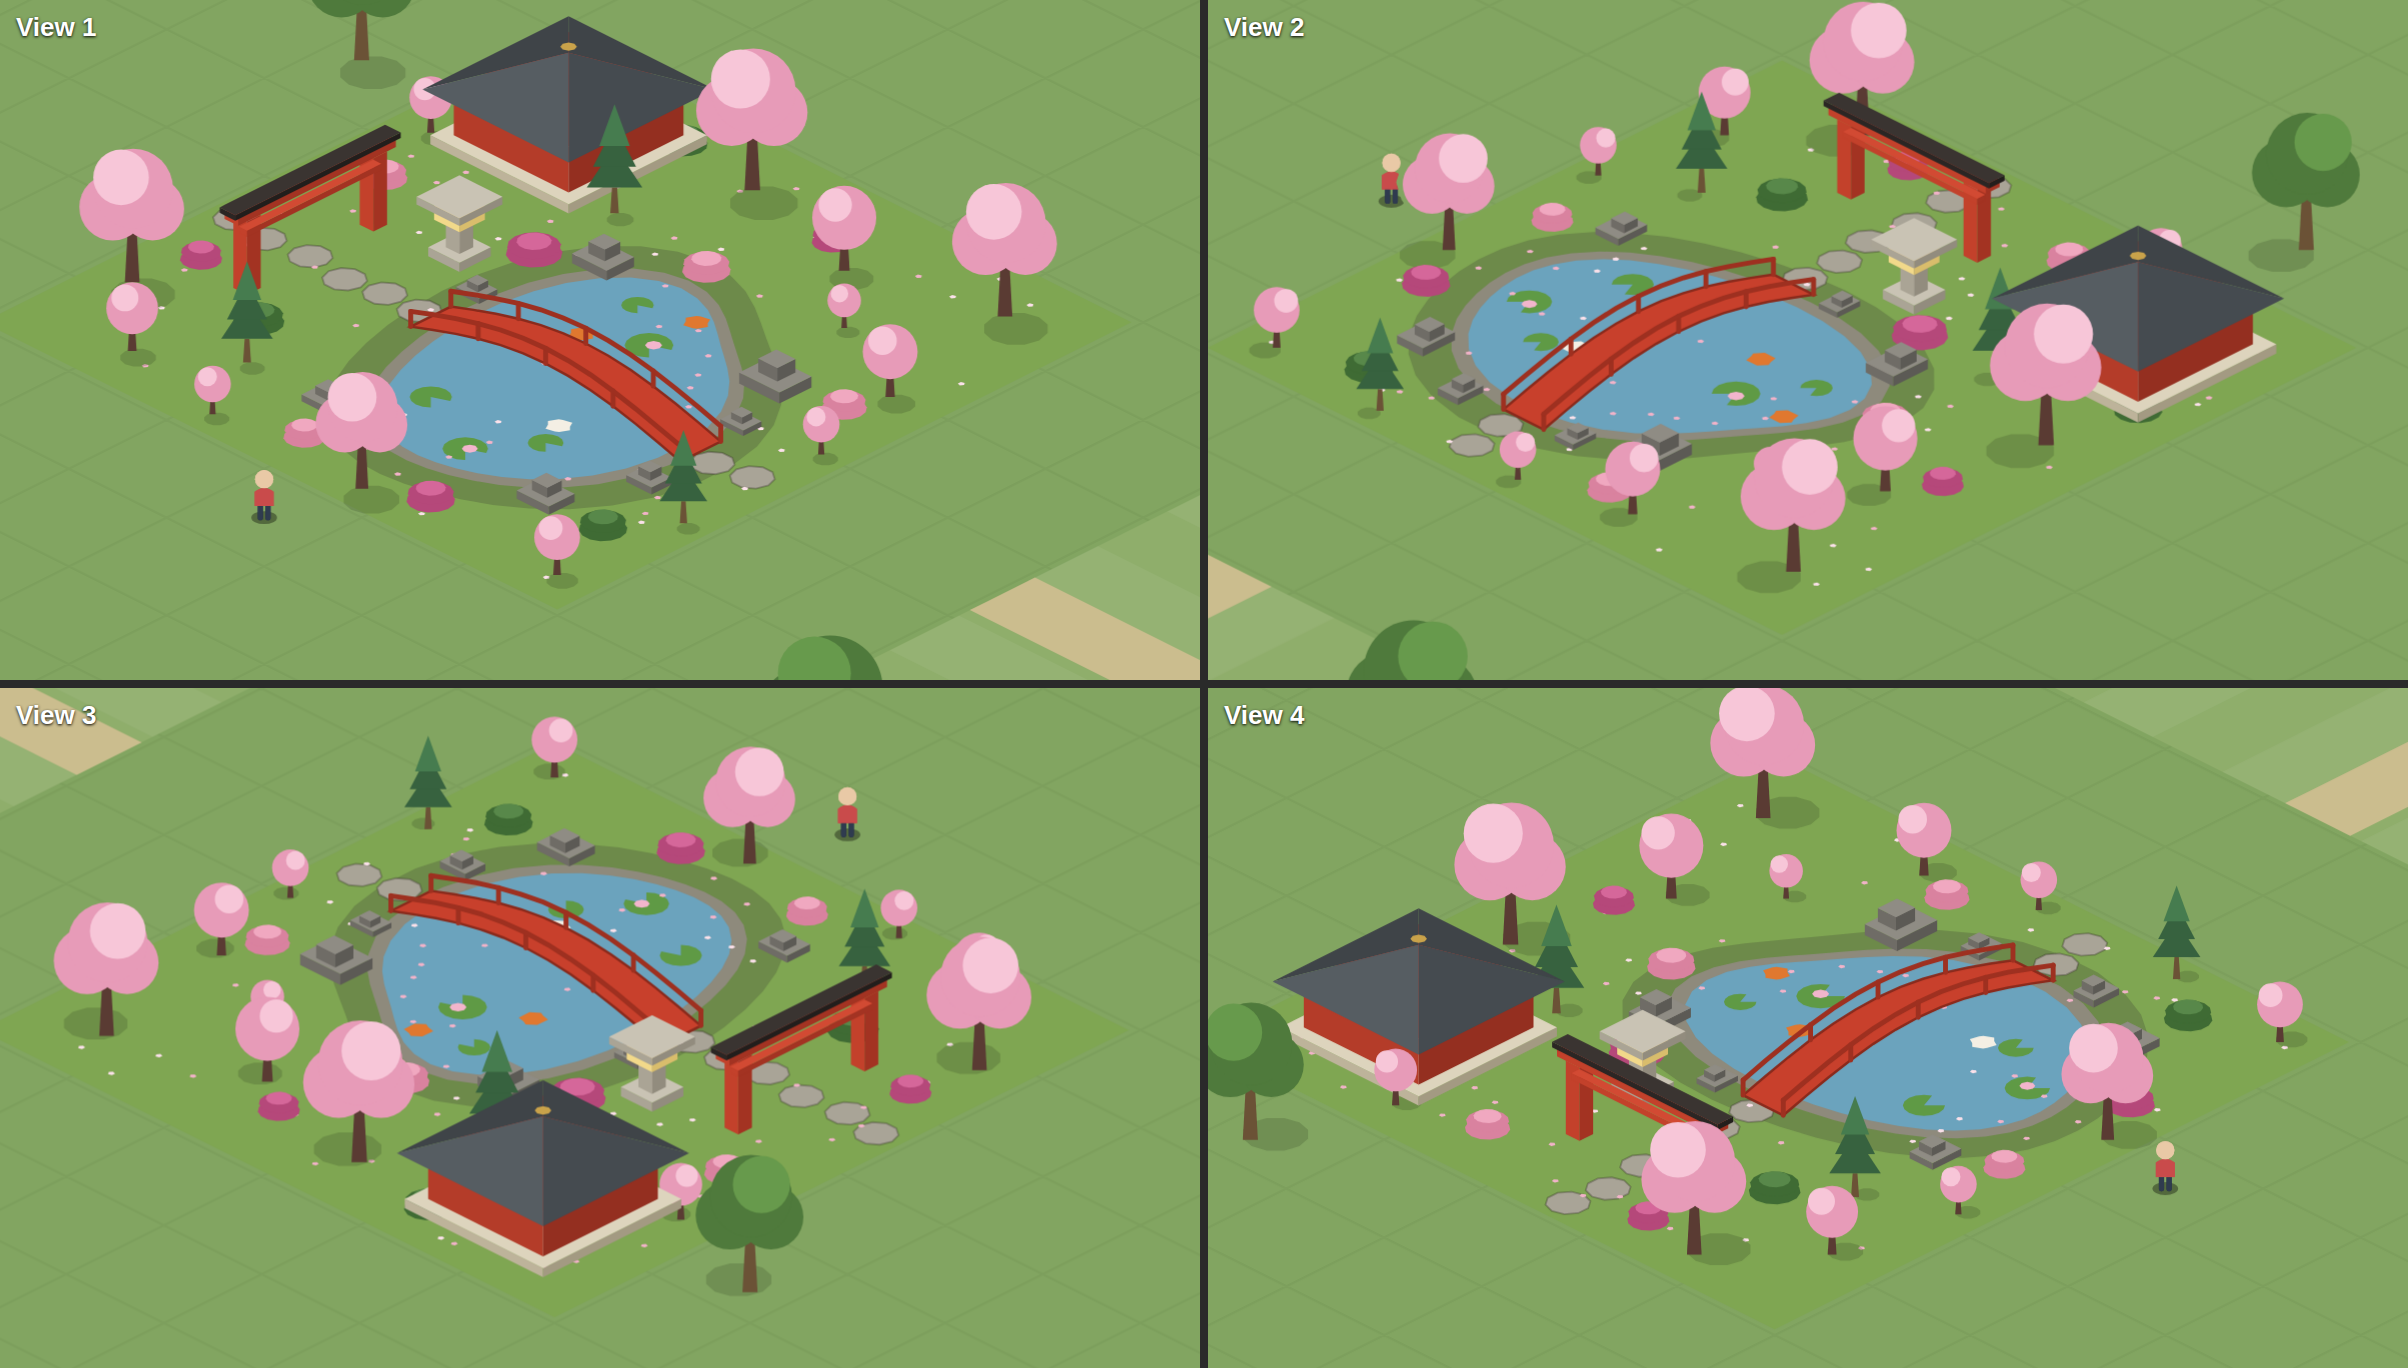
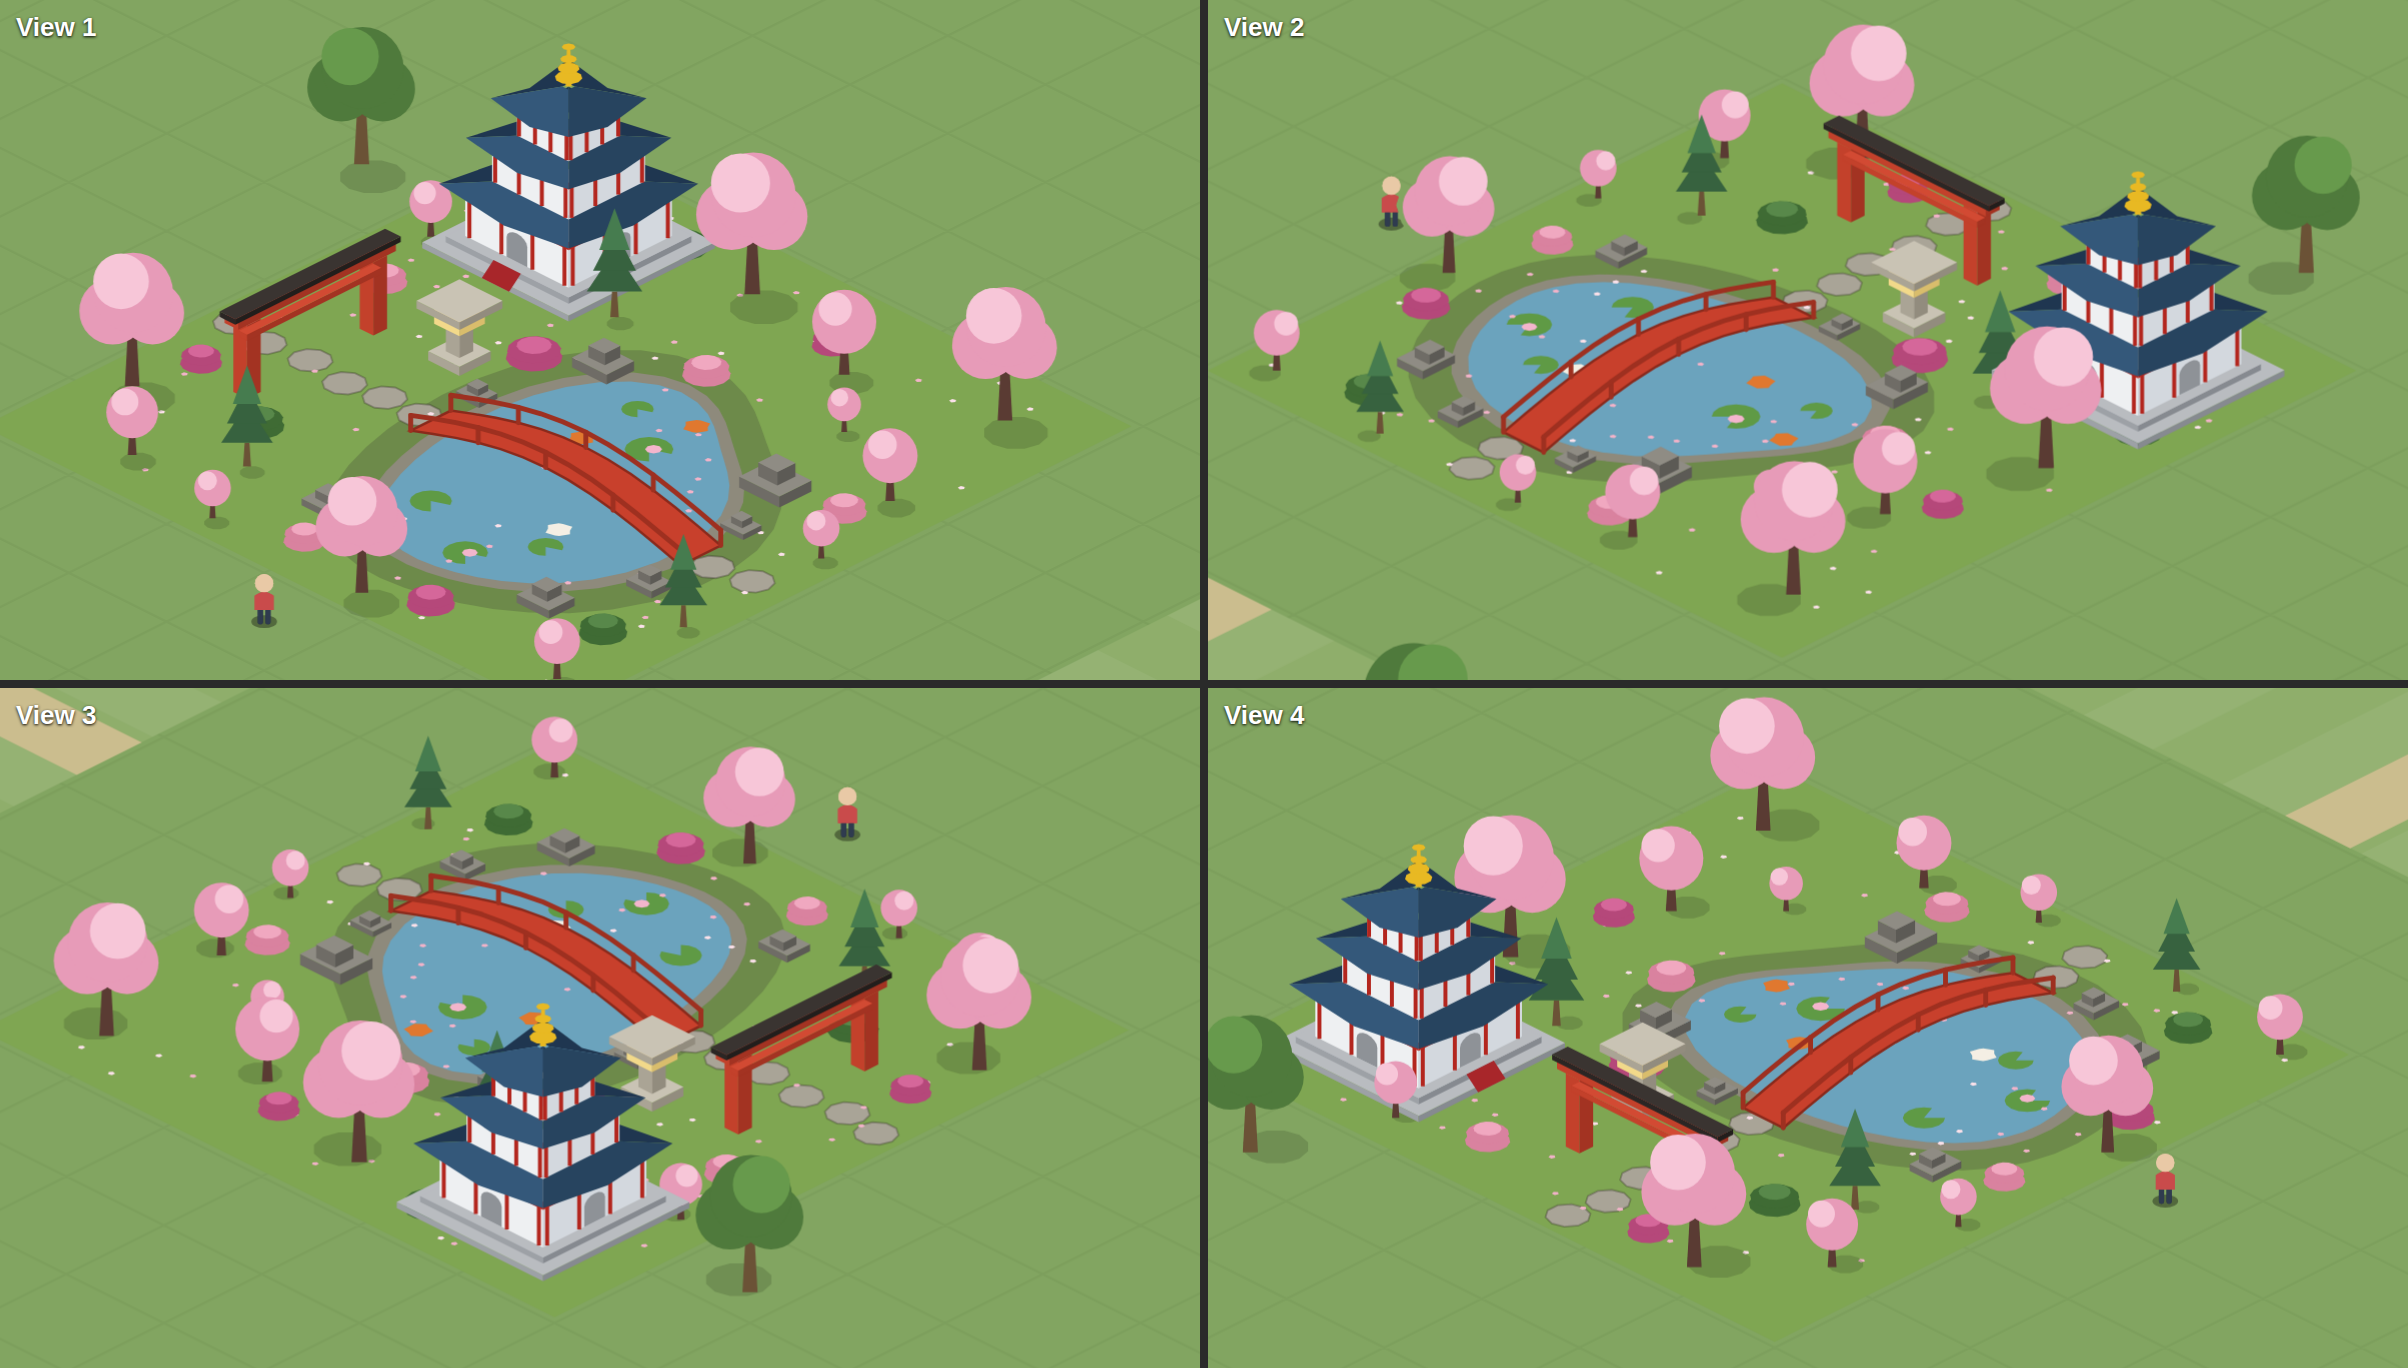
Plan 72M: the garden's temple becomes a three-tiered pagoda
After a second picture from the owner: white walls framed by red posts and
beams, flared roofs of dark blue tiles narrowing as they rise, a gold
spire, a grey stepped base with a red runner and an arched door. The
catalog's line, the plan note and the screenshots follow.

Claude-Session: https://claude.ai/code/session_01626829xCDikHrhnzaA5AeP

diff --git a/unischool/src/components/groundMarkings.tsx b/unischool/src/components/groundMarkings.tsx
@@ -1148,7 +1148,7 @@ function Fountain({ col, row, w, h }: GroundProps) {
 // The Japanese garden (Plan 72, in place of the formal garden, which was
 // drawn as a small Grand Quad; redrawn denser in 72M, after a picture the
 // owner chose): grass, a koi pond with lily pads under a red bridge, a
-// vermilion torii over a path of stepping stones, a small temple hall,
+// vermilion torii over a path of stepping stones, a three-tiered pagoda,
 // cherry trees in blossom with their petals on the grass and the water,
 // azaleas, pines, rocks round the pond and a stone lantern. Everything is
 // authored in the plot's own u/v, so it turns with the camera and never
@@ -1160,7 +1160,7 @@ const JG_ROCKS: Array<[u: number, v: number, size: number, height: number]> = [
 ];
 const JG_STEPS: Array<[number, number]> = [[0.04, 0.6], [0.1, 0.61], [0.17, 0.6], [0.24, 0.61], [0.3, 0.6], [0.36, 0.6], [0.88, 0.61], [0.94, 0.6]];
 const JG_TORII = { u: 0.17, v0: 0.49, v1: 0.71 };
-const JG_TEMPLE = { u: 0.2, v: 0.18, half: 0.1 };
+const JG_TEMPLE = { u: 0.2, v: 0.18, half: 0.09 };
 const JG_BRIDGE = { a: { u: 0.38, v: 0.6 }, b: { u: 0.85, v: 0.6 } };
 const JG_BRIDGE_HALF = 0.035;
 // Cherry trees (ornamental and canopy, pink in styles.css's jg-sakura) and
@@ -1340,29 +1340,97 @@ function GardenTorii({ col, row, w, h }: GroundProps) {
   );
 }
 
-// The temple hall: a stone platform, vermilion walls, and a pyramid roof of
-// dark tiles (hōgyō-zukuri, the small square hall's roof) with a finial.
+// The pagoda (72M, after a picture the owner chose): a stepped stone base
+// with a red runner up its steps, then three tiers, each of white walls
+// framed by red posts and a red beam under a flared roof of dark blue tiles,
+// narrower as they rise, and a gold spire. Built from the eaves' corners in
+// camera order (boxFaces' A at the back, C at the front), so it turns with
+// the camera: the two back faces of a roof first, the two front over them.
+const JG_PAGODA_TIERS = [
+  { half: 1, wall: 15, roof: 3 },
+  { half: 0.74, wall: 12, roof: 3 },
+  { half: 0.5, wall: 10, roof: 6 },
+];
 function GardenTemple({ col, row, w, h }: GroundProps) {
   const { u, v, half } = JG_TEMPLE;
   const cc = col + w * u; const cr = row + h * v;
   const k = Math.min(w, h) * half;
-  const WALL = 15; const PLINTH = 3; const PEAK = 12; const OVER = 0.16;
-  const eaves = boxFaces(cc - k - OVER, cr - k - OVER, (k + OVER) * 2, (k + OVER) * 2, PLINTH + WALL, 0);
-  const apex = lift(project(cc, cr), PLINTH + WALL + PEAK);
-  // The eaves' corners in camera order (A at the back, C at the front):
-  // the two back faces first, the two front faces over them.
-  const face = (p: Pt, q: Pt, cls: string) => <polygon className={cls} points={polyPoints([p, q, apex])} />;
-  return (
-    <>
-      <JgBox c0={cc - k - 0.12} r0={cr - k - 0.12} cw={(k + 0.12) * 2} rh={(k + 0.12) * 2} base={0} height={PLINTH} cls="ground-plinth" />
-      <JgBox c0={cc - k} r0={cr - k} cw={k * 2} rh={k * 2} base={PLINTH} height={WALL} cls="jg-hall" />
-      {face(eaves.A, eaves.B, 'jg-roof-back')}
-      {face(eaves.D, eaves.A, 'jg-roof-back')}
-      {face(eaves.D, eaves.C, 'jg-roof-left')}
-      {face(eaves.C, eaves.B, 'jg-roof-right')}
-      <polygon className="jg-finial" points={polyPoints(projectedCircle(cc, cr, 0.06, 8).map((p) => lift(p, PLINTH + WALL + PEAK + 2)))} />
-    </>
-  );
+  const BASE = 4;
+  const out: React.JSX.Element[] = [];
+  // The base: two grey steps.
+  out.push(<JgBox key="base0" c0={cc - k - 0.22} r0={cr - k - 0.22} cw={(k + 0.22) * 2} rh={(k + 0.22) * 2} base={0} height={2} cls="jg-base" />);
+  out.push(<JgBox key="base1" c0={cc - k - 0.1} r0={cr - k - 0.1} cw={(k + 0.1) * 2} rh={(k + 0.1) * 2} base={2} height={2} cls="jg-base" />);
+  // The red runner up the steps, on the side facing the path and the pond.
+  out.push(<polygon key="runner" className="jg-runner" points={polyPoints([
+    lift(project(cc - 0.14, cr + k + 0.22), 0), lift(project(cc + 0.14, cr + k + 0.22), 0),
+    lift(project(cc + 0.14, cr + k + 0.1), BASE), lift(project(cc - 0.14, cr + k + 0.1), BASE),
+  ])} />);
+  let z = BASE;
+  JG_PAGODA_TIERS.forEach((tier, i) => {
+    const hk = k * tier.half;
+    const wall = boxFaces(cc - hk, cr - hk, hk * 2, hk * 2, z, tier.wall);
+    // White walls, red posts on each visible face, a red beam along the top.
+    out.push(<polygon key={`wl${i}`} className="jg-wall-left" points={polyPoints(wall.left)} />);
+    out.push(<polygon key={`wr${i}`} className="jg-wall-right" points={polyPoints(wall.right)} />);
+    for (const [face, fk] of [[wall.left, 'l'], [wall.right, 'r']] as const) {
+      const [p0, p1, p1t, p0t] = face;
+      const at = (t: number, top: boolean) => {
+        const a = top ? p0t : p0; const b = top ? p1t : p1;
+        return { x: a.x + (b.x - a.x) * t, y: a.y + (b.y - a.y) * t };
+      };
+      for (const t of [0.04, 0.35, 0.65, 0.96]) {
+        const lo = at(t, false); const hi = at(t, true);
+        out.push(<line key={`post${i}${fk}${t}`} className="jg-post" x1={lo.x} y1={lo.y} x2={hi.x} y2={hi.y} />);
+      }
+      // The beam: the top fifth of the wall.
+      out.push(<polygon key={`beam${i}${fk}`} className="jg-beam" points={polyPoints([
+        { x: p0t.x, y: p0t.y + (p0.y - p0t.y) * 0.18 }, { x: p1t.x, y: p1t.y + (p1.y - p1t.y) * 0.18 }, p1t, p0t,
+      ])} />);
+      // The ground floor's arched door, in the middle of each visible face.
+      if (i === 0) {
+        const n = 8;
+        const bl = at(0.4, false); const br = at(0.6, false);
+        const tall = (p0.y - p0t.y) * 0.62;
+        const arch = Array.from({ length: n + 1 }, (_, j) => {
+          const a = Math.PI * (j / n);
+          const mx = (bl.x + br.x) / 2; const my = (bl.y + br.y) / 2;
+          const rx = (br.x - bl.x) / 2; const ry = (br.y - bl.y) / 2;
+          const lift0 = tall * 0.7 + Math.sin(a) * tall * 0.3;
+          return { x: mx - Math.cos(a) * rx, y: my - Math.cos(a) * ry - lift0 };
+        });
+        out.push(<polygon key={`door${fk}`} className="jg-door" points={polyPoints([bl, ...arch, br])} />);
+      }
+    }
+    z += tier.wall;
+    // The roof: from eaves well out past the walls, corners turned up, to a
+    // collar the next tier stands on (or the spire's foot at the top).
+    const OVER = 0.14 * k + 0.06;
+    const eaves = boxFaces(cc - hk - OVER, cr - hk - OVER, (hk + OVER) * 2, (hk + OVER) * 2, z, 0);
+    const next = JG_PAGODA_TIERS[i + 1];
+    const topHalf = next ? k * next.half * 0.9 : k * 0.06;
+    const top = boxFaces(cc - topHalf, cr - topHalf, topHalf * 2, topHalf * 2, z + tier.roof, 0);
+    const UP = 2.2;
+    const face = (p: Pt, q: Pt, pt: Pt, qt: Pt, cls: string, key: string) => {
+      const mid = { x: (p.x + q.x) / 2, y: (p.y + q.y) / 2 + UP * 0.4 };
+      return <polygon key={key} className={cls} points={polyPoints([lift(p, UP), mid, lift(q, UP), qt, pt])} />;
+    };
+    out.push(face(eaves.A, eaves.B, top.A, top.B, 'jg-roof-back', `ra${i}`));
+    out.push(face(eaves.D, eaves.A, top.D, top.A, 'jg-roof-back', `rd${i}`));
+    out.push(face(eaves.D, eaves.C, top.D, top.C, 'jg-roof-left', `rl${i}`));
+    out.push(face(eaves.C, eaves.B, top.C, top.B, 'jg-roof-right', `rr${i}`));
+    z += tier.roof;
+  });
+  // The spire: a post with three rings and a jewel.
+  const foot = project(cc, cr);
+  out.push(<polygon key="spire" className="jg-finial" points={polyPoints([
+    { x: foot.x - 1, y: lift(foot, z).y }, { x: foot.x + 1, y: lift(foot, z).y },
+    { x: foot.x + 0.6, y: lift(foot, z + 12).y }, { x: foot.x - 0.6, y: lift(foot, z + 12).y },
+  ])} />);
+  [3, 6, 9].forEach((dz, j) => out.push(
+    <polygon key={`ring${j}`} className="jg-finial" points={polyPoints(projectedCircle(cc, cr, 0.1 - j * 0.02, 10).map((p) => lift(p, z + dz)))} />,
+  ));
+  out.push(<polygon key="jewel" className="jg-finial" points={polyPoints(projectedCircle(cc, cr, 0.05, 8).map((p) => lift(p, z + 13)))} />);
+  return <>{out}</>;
 }
 
 // An azalea: a low mound, darker below, lighter on top.

diff --git a/unischool/src/data/facilitiesData.ts b/unischool/src/data/facilitiesData.ts
@@ -479,7 +479,7 @@ export const GRAND_LANDMARK_IDS: readonly string[] = GRAND_LANDMARKS.map((l) => 
 export const AMENITIES: ReadonlyArray<{ id: string; name: string; description: string; cost: number; weeks: number; upkeep: number; beauty: number }> = [
   { id: 'AMENITY-STATUE', name: "The Founder's Statue", description: 'The founder in bronze on a stone plinth, a little larger than life, and a meeting place from the day it goes up.', cost: 150_000, weeks: 10, upkeep: 300, beauty: 0.6 },
   { id: 'AMENITY-FOUNTAIN', name: 'The Fountain', description: 'A basin and a jet on a paved round: somewhere to sit, and the first photograph on every tour.', cost: 400_000, weeks: 13, upkeep: 800, beauty: 1 },
-  { id: 'AMENITY-GARDEN', name: 'The Japanese Garden', description: 'A koi pond under a red bridge, a torii over the path, a small temple hall, a stone lantern, and cherry trees in blossom: the quietest acre on campus.', cost: 300_000, weeks: 16, upkeep: 1_500, beauty: 1.5 },
+  { id: 'AMENITY-GARDEN', name: 'The Japanese Garden', description: 'A koi pond under a red bridge, a torii over the path, a three-tiered pagoda, a stone lantern, and cherry trees in blossom: the quietest acre on campus.', cost: 300_000, weeks: 16, upkeep: 1_500, beauty: 1.5 },
   { id: 'AMENITY-CHAPEL', name: 'The Chapel', description: 'A small stone chapel, used for concerts and quiet as often as for services.', cost: 1_500_000, weeks: 39, upkeep: 2_000, beauty: 1.5 },
   { id: 'AMENITY-BELLTOWER', name: 'The Bell Tower', description: 'A slim tower with a peal of bells that marks the hours across the campus.', cost: 1_800_000, weeks: 47, upkeep: 1_500, beauty: 2 },
 ];

diff --git a/unischool/src/styles.css b/unischool/src/styles.css
@@ -1003,13 +1003,19 @@ button.build-tile { font-family: inherit; }
 .jg-kasagi-top { fill: #3a3431; }
 .jg-kasagi-left { fill: #2b2624; }
 .jg-kasagi-right { fill: #221e1c; }
-.jg-hall-top { fill: #c8402c; }
-.jg-hall-left { fill: #b43c29; }
-.jg-hall-right { fill: #942f20; }
-.jg-roof-back { fill: #3f4448; }
-.jg-roof-left { fill: #565d62; }
-.jg-roof-right { fill: #454b50; }
-.jg-finial { fill: #c9a24a; }
+.jg-base-top { fill: #b9bcc0; }
+.jg-base-left { fill: #9da1a6; }
+.jg-base-right { fill: #868a90; }
+.jg-runner { fill: #a8262a; }
+.jg-wall-left { fill: #eef0f2; }
+.jg-wall-right { fill: #d3d8de; }
+.jg-post { stroke: #b3261e; stroke-width: 1.3; }
+.jg-beam { fill: #b3261e; }
+.jg-door { fill: #8e9297; }
+.jg-roof-back { fill: #1f3650; }
+.jg-roof-left { fill: #34587a; }
+.jg-roof-right { fill: #27445f; }
+.jg-finial { fill: #e8b923; }
 .jg-shrub-pink { fill: #d9829f; }
 .jg-shrub-pink-top { fill: #f0a8c0; }
 .jg-shrub-magenta { fill: #b5487a; }

diff --git a/docs/plans/72-owners-answers.md b/docs/plans/72-owners-answers.md
@@ -413,8 +413,10 @@ picture they chose.
   with lily pads (two in flower) and a mossy margin, rocks round it, and
   the red bridge now crossing its width with posts along the rails; a
   vermilion torii with a black lintel over a path of stepping stones that
-  runs to the bridge; a small temple hall (vermilion walls on a stone
-  platform, a pyramid roof of dark tiles with a gilt finial); twelve
+  runs to the bridge; a three-tiered pagoda (redrawn after a second
+  picture from the owner: white walls framed by red posts and beams, flared
+  roofs of dark blue tiles narrowing as they rise, a gold spire, a grey
+  stepped base with a red runner and an arched door); twelve
   cherry trees in blossom and three pines; azaleas; the stone lantern; and
   petals on the grass and the water, placed by a fixed hash so the run's
   stream is untouched. The catalog's and the ladder's lines say what it
